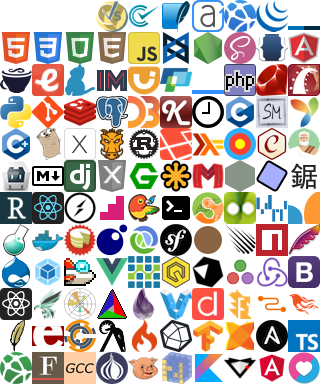
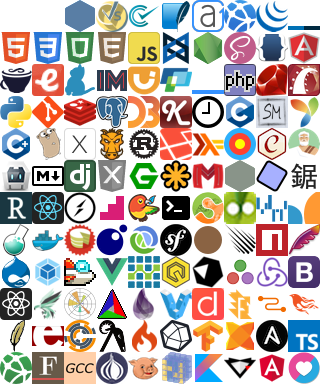
Finish OpenJDK scraper

Changed region(s): [[0.1875, 0.0, 0.3125, 0.0938]]

diff --git a/assets/stylesheets/pages/_openjdk.scss b/assets/stylesheets/pages/_openjdk.scss
@@ -1,22 +1,7 @@
 ._openjdk {
-  > ul.inheritance {
-    @extend %note, %note-blue;
-    li {
-      list-style: none;
-    }
-  }
+  @extend %simple;
 
-  ul.blockList, ul.blockListLast {
-    padding-left: 0;
-    li.blockList {
-      list-style: none;
-    }
-  }
-
-  h3 {
-    @extend %block-heading;
-  }
-  h4 {
-    @extend %block-label, %label-blue;
-  }
+  ul.inheritance { list-style: none; }
+  > ul.inheritance { @extend %note, %note-blue; }
+  > ul.inheritance ul.inheritance { margin: 0; }
 }

diff --git a/assets/stylesheets/global/_icons.scss b/assets/stylesheets/global/_icons.scss
@@ -43,6 +43,7 @@
 %icon-clipboard-white       { background-position: -1rem -2rem; }
 %icon-close-white           { background-position: -2rem -2rem; }
 
+._icon-openjdk:before       { background-position: -2rem 0; }
 ._icon-codeceptjs:before    { background-position: -3rem 0; }
 ._icon-codeception:before   { background-position: -4rem 0; }
 ._icon-sqlite:before        { background-position: -5rem 0; @extend %darkIconFix !optional; }

diff --git a/assets/stylesheets/global/_base.scss b/assets/stylesheets/global/_base.scss
@@ -123,6 +123,11 @@ table {
   border-radius: 3px;
 }
 
+caption {
+  font-weight: $boldFontWeight;
+  padding: 0 .7em .3em;
+}
+
 th, td {
   vertical-align: top;
   padding: .3em .7em;

diff --git a/lib/docs/filters/openjdk/clean_html.rb b/lib/docs/filters/openjdk/clean_html.rb
@@ -1,7 +1,11 @@
+# frozen_string_literal: true
+
 module Docs
   class Openjdk
     class CleanHtmlFilter < Filter
       def call
+        css('.topNav', '.subNav', '.bottomNav', '.legalCopy', 'noscript', '.subTitle').remove
+
         # Preserve internal fragment links
         # Transform <a name="foo"><!-- --></a><bar>text</bar>
         #      into <bar id="foo">text</bar>
@@ -12,75 +16,117 @@ module Docs
           end
         end
 
-        # Find the main container
-        # Root page have three containers, we use the second one
-        container = at_css('.contentContainer' + (root_page? ? ':nth-of-type(2)' : ''))
-
-        # Move description to the container top
-        if description_link = at_css('a[href$=".description"]')
-          target = description_link['href'][1..-1]
-          description_nodes = xpath("//*[@id='#{target}'] | //*[@id='#{target}']/following-sibling::*")
-          container.prepend_child(description_nodes)
-          description_nodes.at_css('h2:contains("Description")')&.remove
-          description_link.parent.remove
+        # Remove superfluous content on package pages
+        css('h2:contains("Package Specification")').each do |node|
+          node.next.remove while node.next
+          node.remove
         end
 
-        # Remove superfluous and duplicated content
-        css('.subTitle', '.docSummary', '.summary caption', 'caption span.tabEnd').remove
-        css('table[class$="Summary"] > tr > th').each do |th|
-          th.parent.remove
-        end
-        css('h3[id$=".summary"]').each do |header|
-          # Keep only a minimal list of annotation required/optional elements
-          # as with "Methods inherited from class"
-          if header['id'].match? %r{\.element\.summary$}
-            table_summary = header.next_element
-            code_summary = header.document.create_element 'code'
-            table_summary.css('.memberNameLink a').each_with_index do |element, index|
-              code_summary << header.document.create_text_node(', ') if index > 0
-              code_summary << element
-            end
-            table_summary.replace(code_summary)
-          # Remove summary element if detail exists
-          elsif detail_header = at_css("h3[id='#{header['id'].sub('summary','detail')}']")
-            header.next_element.remove
-            header.replace(detail_header.parent.children)
-          end
-        end
-        at_css('.details')&.remove unless at_css('.details h3')
-        css('h3[id$=".summary"]', 'h3[id$=".detail"]', 'caption span').each do |header|
-          header.name = 'h3' if header.name == 'span'
-          content = header.content
-          content.remove! ' Summary'
-          content.remove! ' Detail'
-          header.content = content.pluralize
-        end
-        css('h4').each do |entry_header|
-          entry_pre = entry_header.next_element
-          entry_header.children = entry_pre.children
-          entry_pre.remove
+        # Replace summary tables with their detail content
+        css('h3[id$=".summary"]').each do |node|
+          id = node['id'].sub('summary', 'detail')
+          detail = at_css("h3[id='#{id}']") || at_css("h3[id='#{id.remove('optional.').remove('required.')}']")
+          node.parent.children = detail.parent.children if detail
         end
 
-        # Keep only header and container
-        container.prepend_child(at_css('.header'))
-        @doc = container
+        css('h3[id$=".summary"]', 'h3[id$=".detail"]').each do |node|
+          node.content = node.content.remove(' Summary').remove(' Detail').pluralize
+        end
 
-        # Remove packages not belonging to this version
         if root_page?
-          at_css('.overviewSummary caption h3').content =
-            version + ' ' +
-            at_css('.overviewSummary caption h3').content
-          css('.overviewSummary td.colFirst a').each do |node|
-            unless context[:only_patterns].any? { |pattern| node['href'].match? pattern }
+          css('.header')[1].remove
+          css('.contentContainer')[0].remove
+          css('.contentContainer')[-1].remove
+
+          # Remove packages not belonging to this version
+          css('td.colFirst a').each do |node|
+            unless context[:only_patterns].any? { |pattern| pattern =~ node['href'] }
               node.parent.parent.remove
             end
           end
+
+          at_css('h1').content = "OpenJDK #{release} Documentation" + (version != release ? " (#{version.split(' ').last})" : '')
         end
 
-        # Syntax highlighter
+        css('table').each do |node|
+          node.remove_attribute 'summary'
+          node.remove_attribute 'cellspacing'
+          node.remove_attribute 'cellpadding'
+          node.remove_attribute 'border'
+        end
+
+        css('span.deprecatedLabel').each { |node| node.name = 'strong' }
+
+        css('.contentContainer', '.docSummary', 'div.header', 'div.description', 'div.summary', 'span', 'tbody').each do |node|
+          node.before(node.children).remove
+        end
+
+        css('tt').each { |node| node.name = 'code' }
+        css('div.block').each { |node| node.name = 'p' unless node.at_css('.block, p') }
+
+        # Create paragraphs
+        css('div > p:first-of-type').each do |node|
+          node.before('<p></p>')
+          node = node.previous
+          node.prepend_child(node.previous) while node.previous
+        end
+
+        css('ul > li > table:only-child').each do |node|
+          node.parent.parent.before(node)
+        end
+
+        css('blockquote > table:only-child', 'blockquote > dl:only-child').each do |node|
+          node.parent.before(node).remove
+        end
+
+        css('blockquote > pre:only-child').each do |node|
+          node.content = node.content.strip_heredoc
+          node.parent.before(node).remove
+        end
+
+        css('blockquote > code').each do |node|
+          node.parent.name = 'pre'
+          node.content = node.content.strip.gsub(/\s+/, ' ')
+        end
+
+        css('dt > cite').each do |node| # remove "See The Java™ Language Specification"
+          node.parent.next_element.remove
+          node.parent.remove
+        end
+
+        css('dt:contains("See Also")').each do |node|
+          unless node.next_element.at_css('a')
+            node.next_element.remove
+            node.remove
+          end
+        end
+
+        css('ul.blockList li.blockList:only-child').each do |node|
+          node.first_element_child['id'] ||= node.parent['id'] if node.parent['id']
+          node.parent.before(node.children).remove
+        end
+
+        css('hr + br', 'p + br', 'div + br', 'hr').remove
+
         css('pre').each do |node|
+          node.content = node.content.strip
           node['data-language'] = 'java'
         end
+
+        css('.title').each do |node|
+          node.name = 'h1'
+        end
+
+        css('h3, h4').each do |node|
+          node.name = node.name.sub(/\d/) { |i| i.to_i - 1 }
+        end
+
+        css('*[title]').remove_attr('title')
+
+        css('*[class]').each do |node|
+          node.remove_attribute('class') unless node['class'] == 'inheritance'
+        end
+
         doc
       end
     end

diff --git a/lib/docs/scrapers/openjdk.rb b/lib/docs/scrapers/openjdk.rb
@@ -3,17 +3,12 @@ module Docs
     self.name = 'OpenJDK'
     self.type = 'openjdk'
     self.root_path = 'overview-summary.html'
-    self.links = {
-      home: 'http://openjdk.java.net/',
-      code: 'http://hg.openjdk.java.net/jdk8u'
-    }
-    self.release = '8'
     # Downloaded from packages.debian.org/sid/openjdk-8-doc
-    # extracting subdirectoy /usr/share/doc/openjdk-8-jre-headless/api
-    self.dir = '/Users/Thibaut/DevDocs/Docs/Java'
+    # Extracting subdirectory /usr/share/doc/openjdk-8-jre-headless/api
+    self.dir = '/Users/Thibaut/DevDocs/Docs/OpenJDK'
 
-    html_filters.push 'openjdk/entries', 'openjdk/clean_html'
     html_filters.insert_after 'internal_urls', 'openjdk/clean_urls'
+    html_filters.push 'openjdk/entries', 'openjdk/clean_html'
 
     options[:skip_patterns] = [
       /compact[123]-/,
@@ -25,11 +20,15 @@ module Docs
 
     options[:attribution] = <<-HTML
       &copy; 1993&ndash;2017, Oracle and/or its affiliates. All rights reserved.<br>
-      Use is subject to <a href="http://download.oracle.com/otndocs/jcp/java_se-8-mrel-spec/license.html">license terms</a>.<br>
-      We are not endorsed by or affiliated with Oracle.
+      Documentation extracted from Debian's OpenJDK Development Kit package.<br>
+      Licensed under the GNU General Public License, version 2, with the Classpath Exception.<br>
+      Various third party code in OpenJDK is licensed under different licenses (see Debian package).<br>
+      Java and OpenJDK are trademarks or registered trademarks of Oracle and/or its affiliates.
     HTML
 
-    version 'Core' do
+    version '8' do
+      self.release = '8'
+
       options[:only_patterns] = [
         /\Ajava\/beans\//,
         /\Ajava\/io\//,
@@ -55,13 +54,17 @@ module Docs
         /\Ajavax\/tools\//]
     end
 
-    version 'GUI' do
+    version '8 GUI' do
+      self.release = '8'
+
       options[:only_patterns] = [
         /\Ajava\/awt\//,
         /\Ajavax\/swing\//]
     end
 
-    version 'Web' do
+    version '8 Web' do
+      self.release = '8'
+
       options[:only_patterns] = [
         /\Ajava\/applet\//,
         /\Ajava\/rmi\//,

diff --git a/lib/docs/filters/openjdk/entries.rb b/lib/docs/filters/openjdk/entries.rb
@@ -1,3 +1,5 @@
+# frozen_string_literal: true
+
 module Docs
   class Openjdk
     class EntriesFilter < Docs::EntriesFilter
@@ -13,24 +15,28 @@ module Docs
       end
 
       def get_type
+        return 'Packages' if slug.end_with?('package-summary')
+
         if subtitle = at_css('.header > .subTitle:last-of-type')
-          subtitle.content.strip
+          type = subtitle.content.strip
         else
-          at_css('.header > .title').content.strip.remove 'Package '
+          type = at_css('.header > .title').content.strip.remove 'Package '
         end
+        type = type.split('.')[0..2].join('.')
+        type
       end
 
       def additional_entries
         # Only keep the first found entry with a unique name,
         # i.e. overloaded methods are skipped in index
         css('a[name$=".summary"]').each_with_object({}) do |summary, entries|
-          next if summary['name'] == 'nested.class.summary'
+          next if summary['name'].include?('nested') || summary['name'].include?('constructor') ||
+                  summary['name'].include?('field') || summary['name'].include?('constant')
           summary.parent.css('.memberNameLink a').each do |node|
-            entry_name = node.parent.parent.content.strip
-            entry_name.sub! %r{\(.+?\)}m, '()'
-            id = node['href']
-            id.remove! %r{.*#}
-            entries[entry_name] ||= [name + '.' + entry_name, id]
+            name = node.parent.parent.content.strip
+            name.sub! %r{\(.+?\)}m, '()'
+            id = node['href'].remove(%r{.*#})
+            entries[name] ||= ["#{self.name}.#{name}", id]
           end
         end.values
       end

diff --git a/lib/docs/filters/openjdk/clean_urls.rb b/lib/docs/filters/openjdk/clean_urls.rb
@@ -1,3 +1,5 @@
+# frozen_string_literal: true
+
 module Docs
   class Openjdk
     class CleanUrlsFilter < Filter
@@ -8,10 +10,10 @@ module Docs
 
           # The following code ignores most options that InternalUrlsFilter accepts,
           # only the currently used options are considered here.
-          self.class.parent.versions.each do |v|
-            if v.options[:only_patterns].any? { |pattern| path.match? pattern } &&
-               v.options[:skip_patterns].none? { |pattern| path.match? pattern }
-              node['href'] = "/#{v.slug}/#{path}"
+          self.class.parent.versions.each do |version|
+            if version.options[:only_patterns].any? { |pattern| path.match?(pattern) } &&
+               version.options[:skip_patterns].none? { |pattern| path.match?(pattern) }
+              node['href'] = "/#{version.slug}/#{path}"
               break
             end
           end

diff --git a/lib/docs/core/scraper.rb b/lib/docs/core/scraper.rb
@@ -116,7 +116,7 @@ module Docs
       @options ||= self.class.options.deep_dup.tap do |options|
         options.merge! base_url: base_url, root_url: root_url,
                        root_path: root_path, initial_paths: initial_paths,
-                       version: self.class.version
+                       version: self.class.version, release: self.class.release
 
         if root_path?
           (options[:skip] ||= []).concat ['', '/']

diff --git a/lib/docs/core/filter.rb b/lib/docs/core/filter.rb
@@ -42,6 +42,10 @@ module Docs
       context[:version]
     end
 
+    def release
+      context[:release]
+    end
+
     def subpath
       @subpath ||= subpath_to(current_url)
     end
